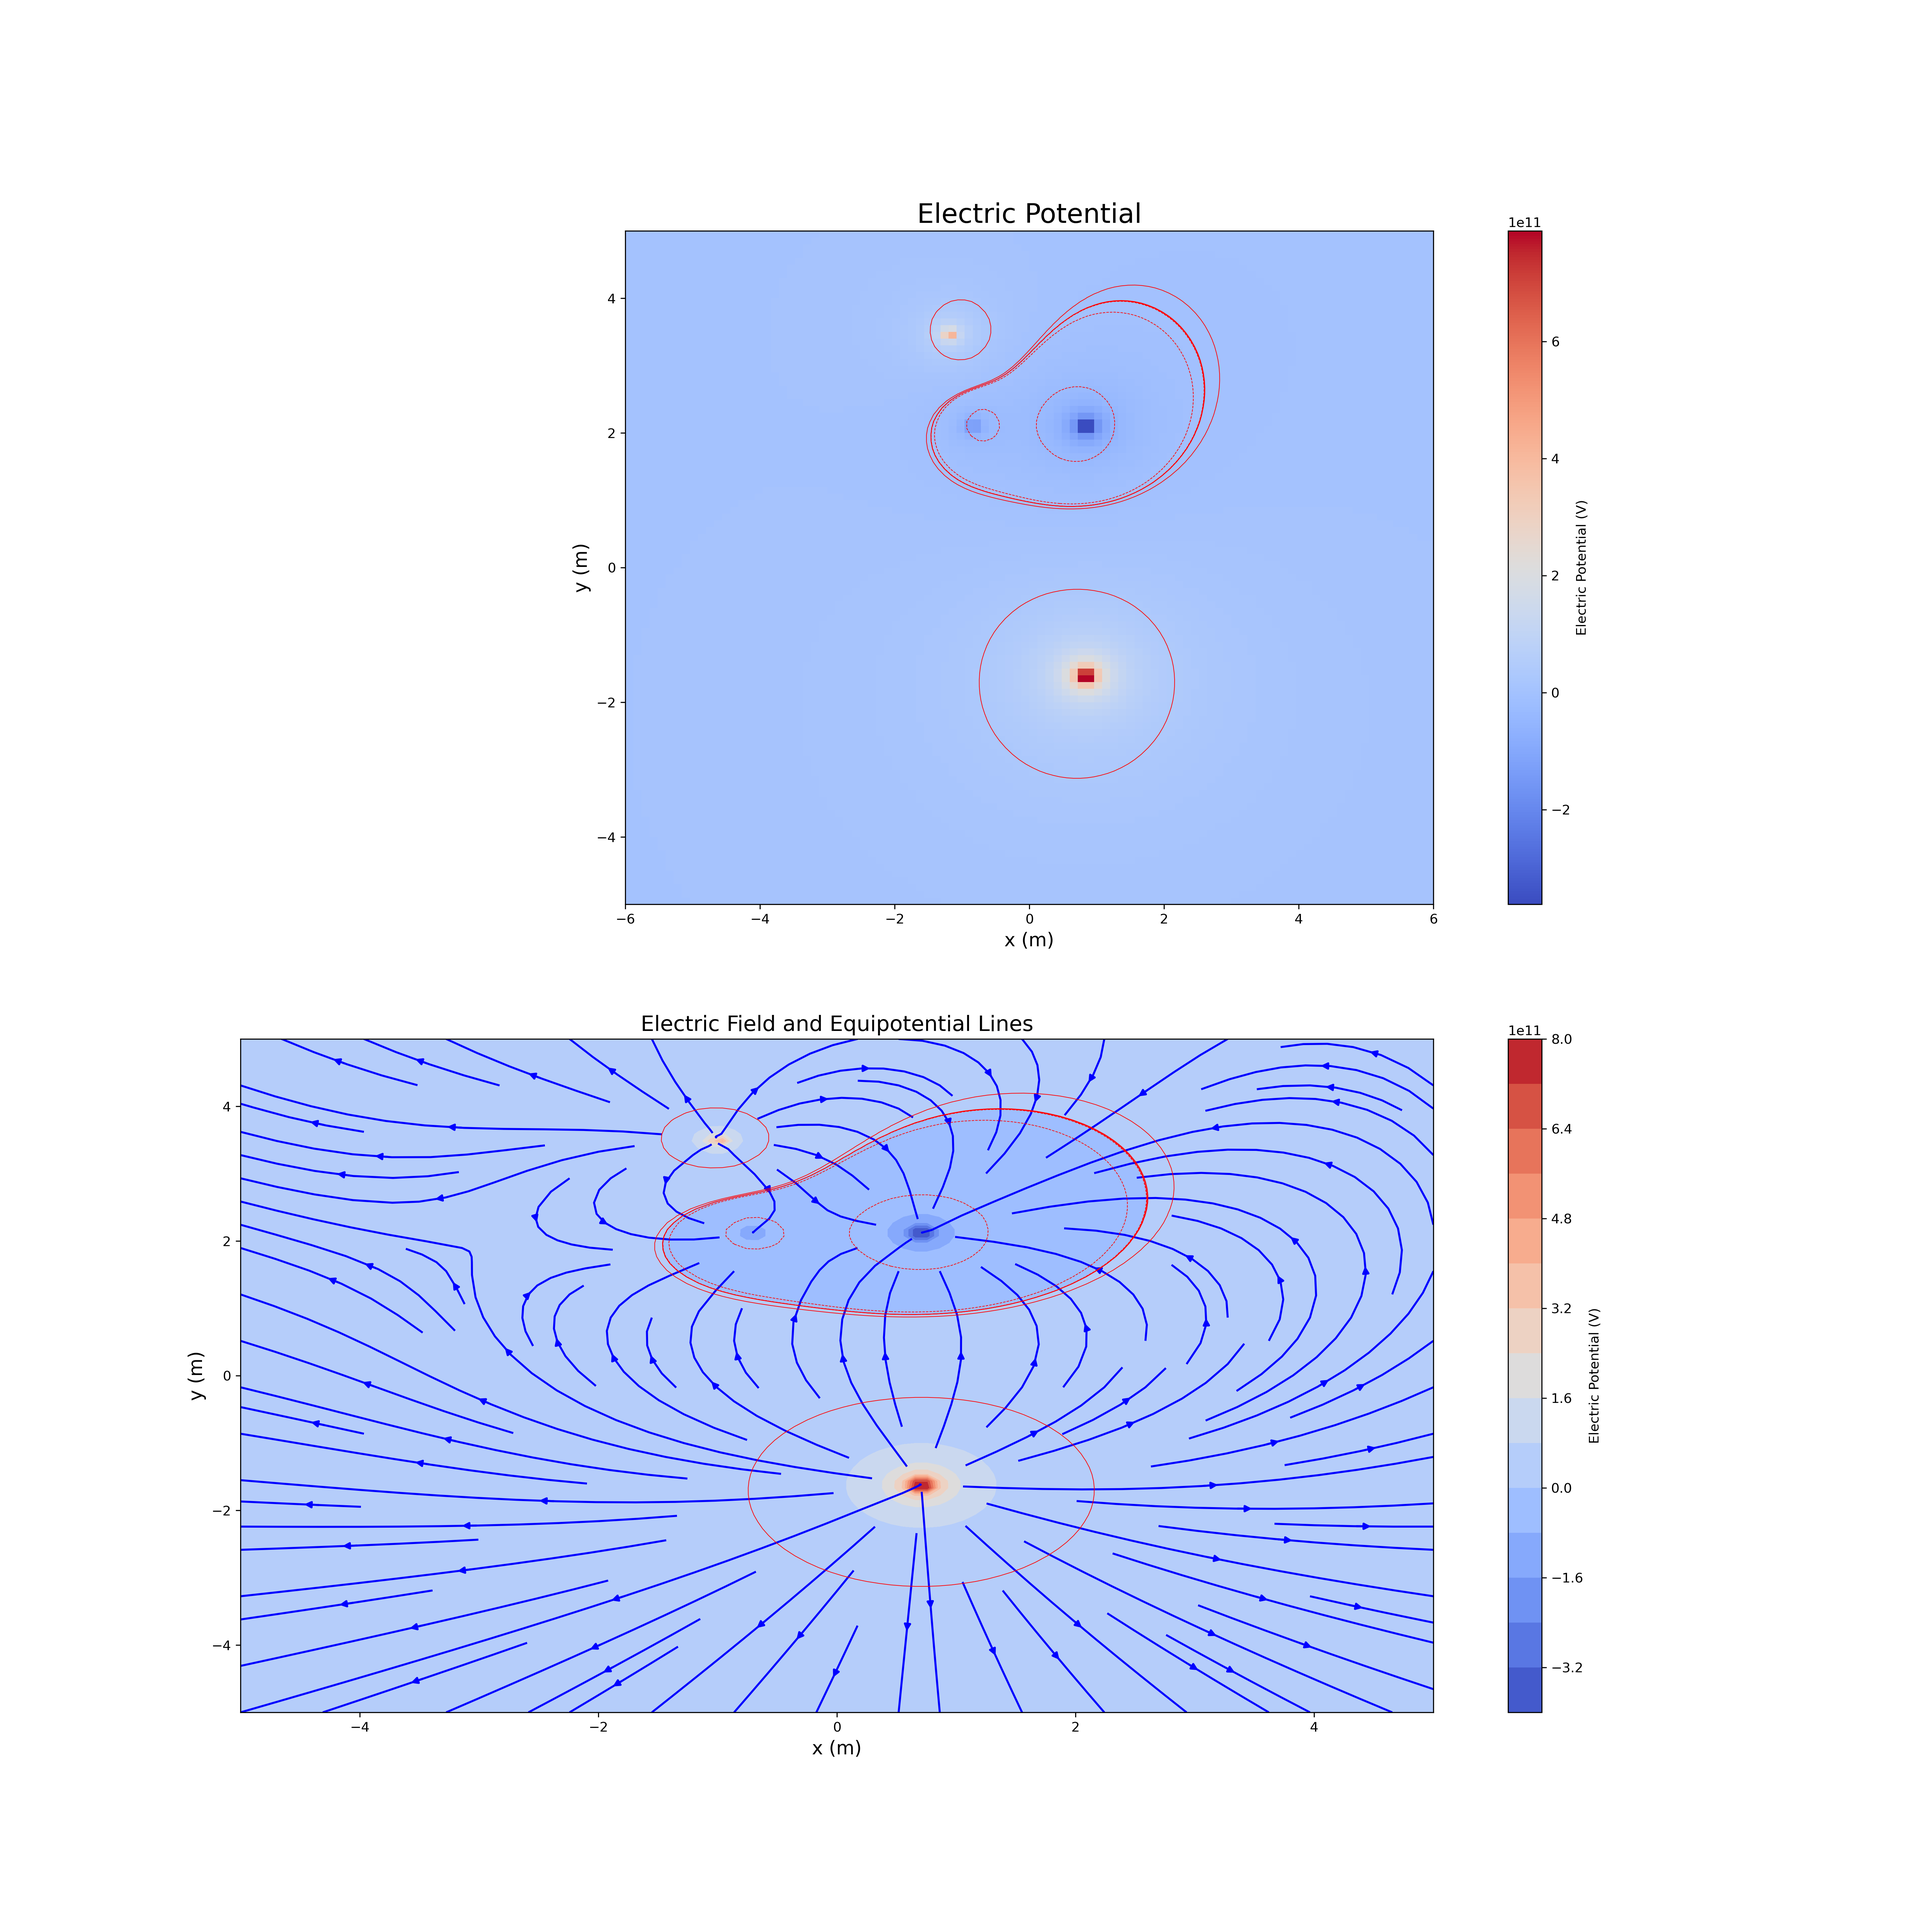
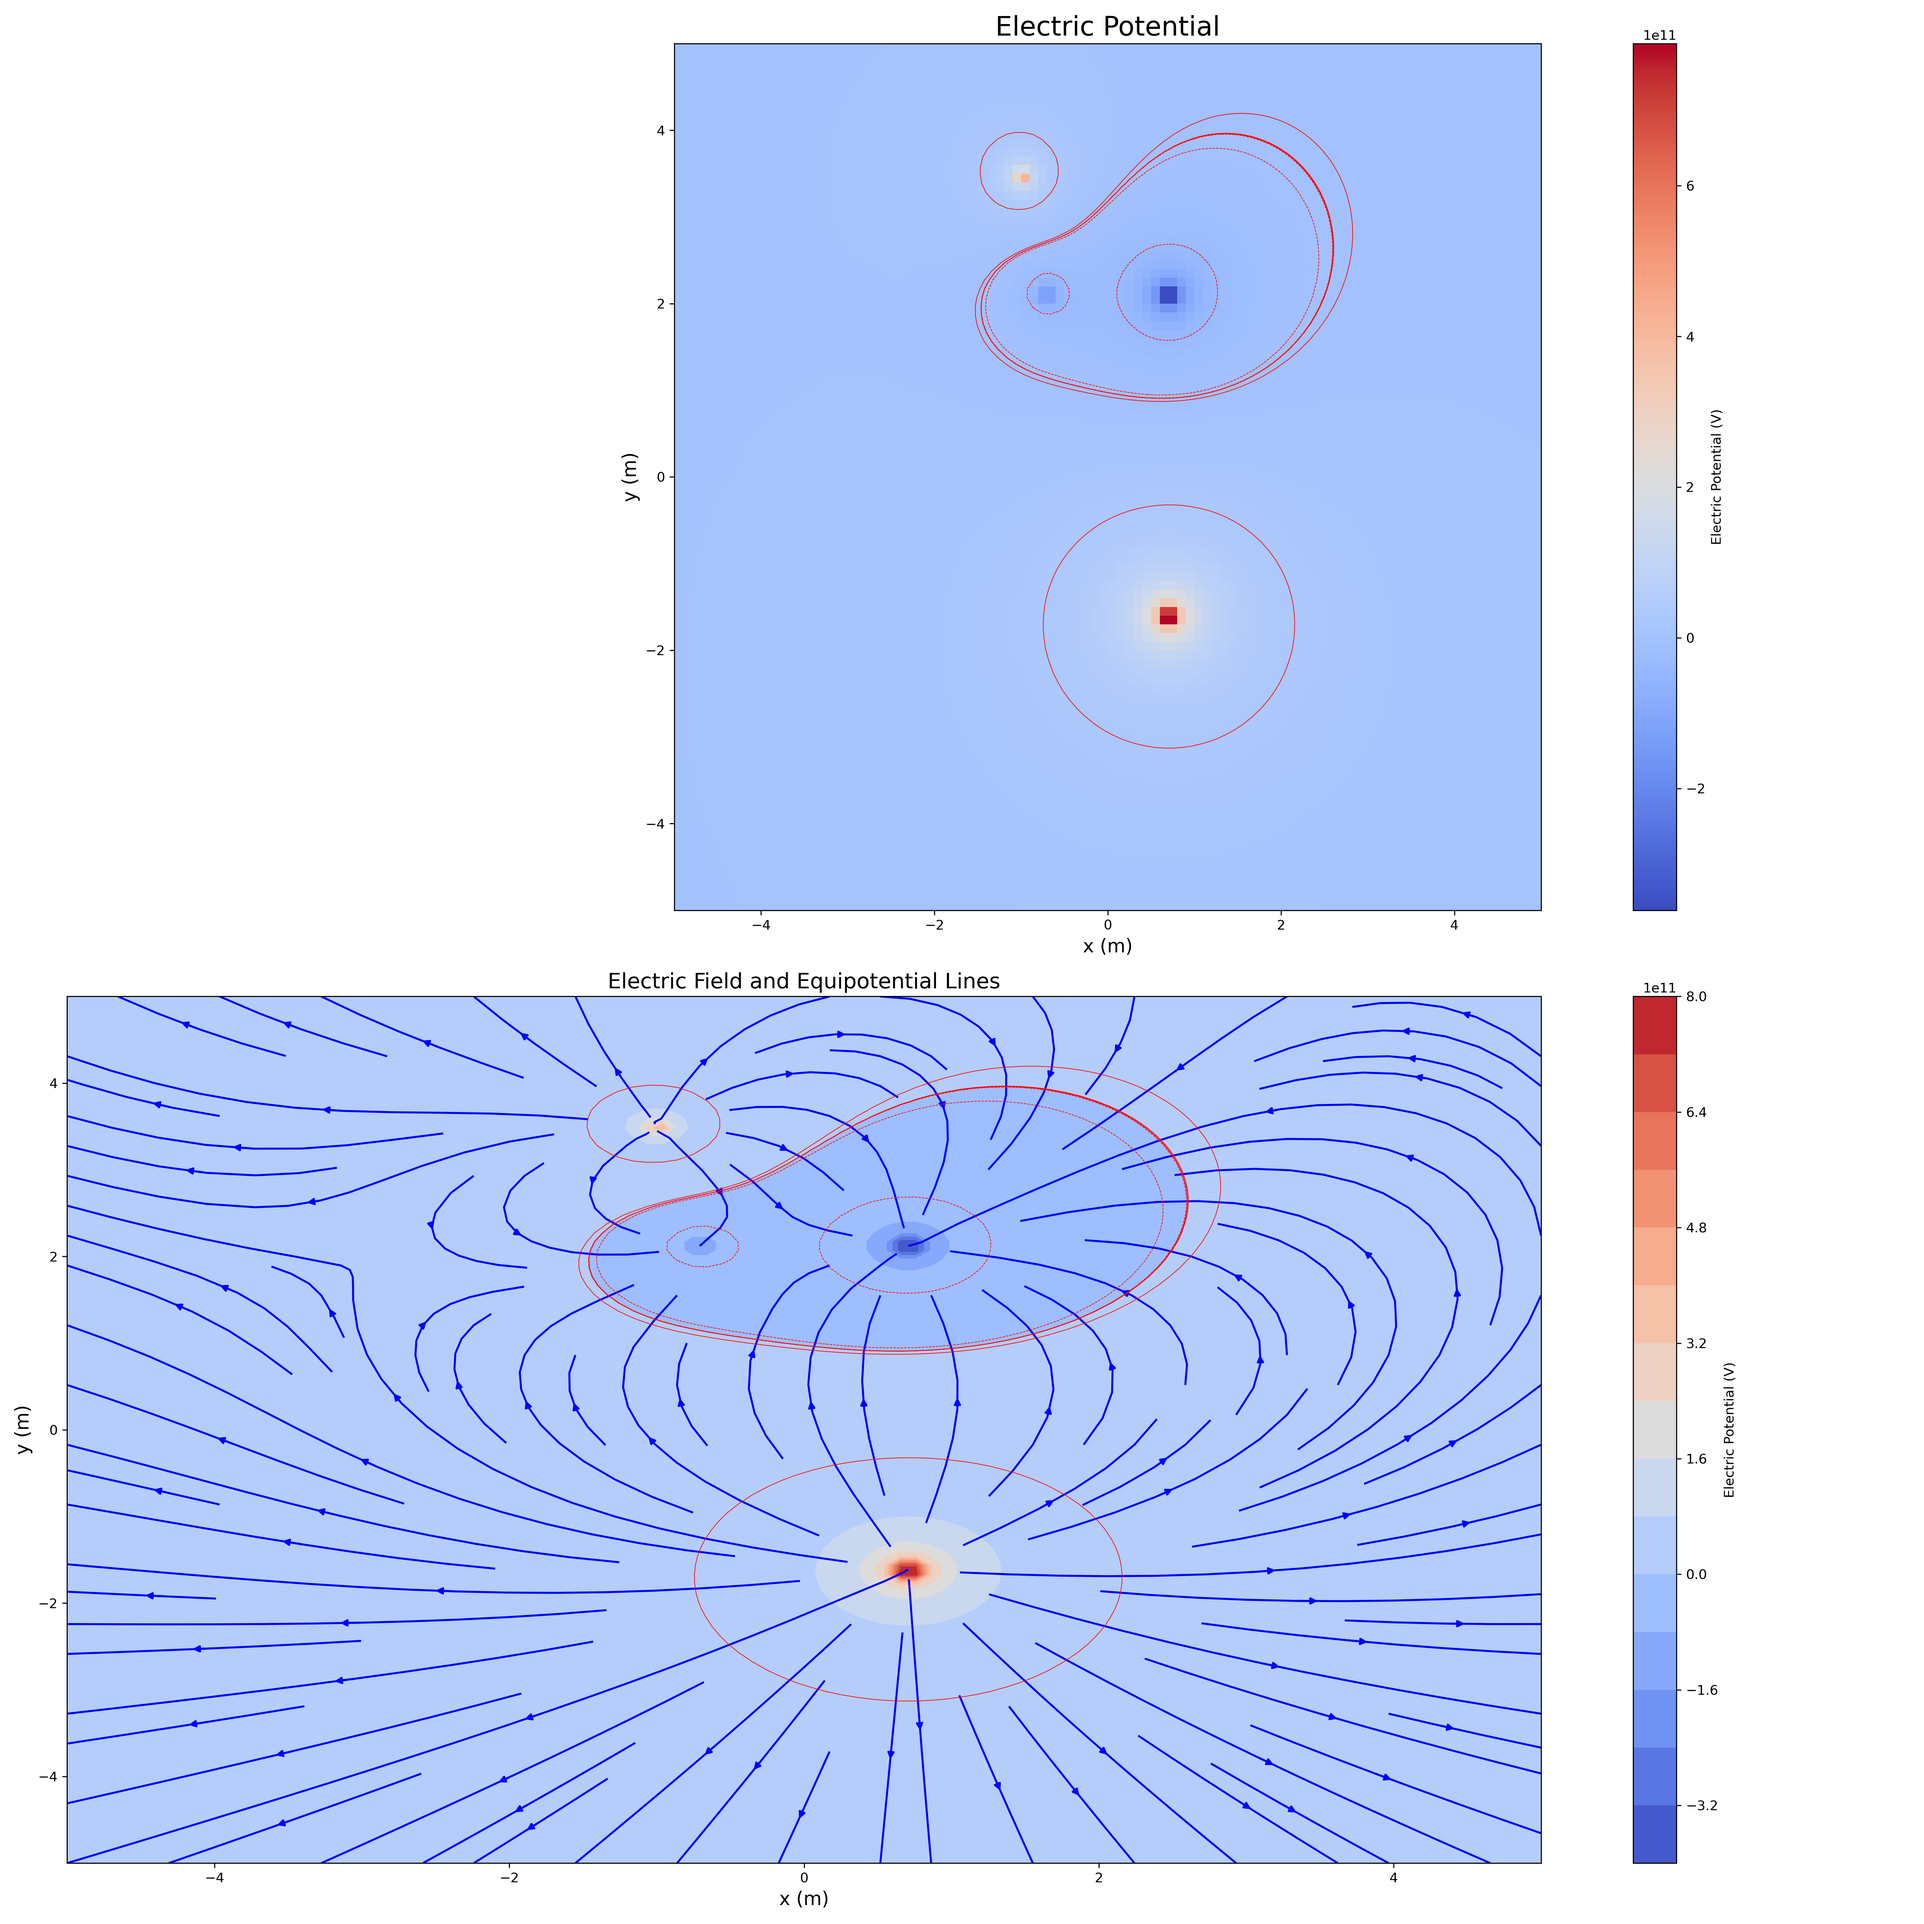
improvements to the code with images

diff --git a/PHYS 2330 Graded Work/Computational Project 1 & Physics Assignment 2/TH_Computational_Assignment _1.py b/PHYS 2330 Graded Work/Computational Project 1 & Physics Assignment 2/TH_Computational_Assignment _1.py
@@ -112,7 +112,7 @@ ax1.set_ylabel("y (m)", fontsize=14)
 
 
 # Electric potential plot (using coolwarm colour scheme)
-im1 = ax1.imshow(V_potential, cmap='coolwarm', extent=(-6, 6, -5, 5), origin="lower")
+im1 = ax1.imshow(V_potential, cmap='coolwarm', extent=(-5, 5, -5, 5), origin="lower")
 plt.colorbar(im1, ax=ax1, label="Electric Potential (V)")
 
 # Contour plot for electric potential
@@ -142,6 +142,8 @@ ax3.set_ylabel("y (m)", fontsize=14)
 # Colorbar for the potential field
 plt.colorbar(filled_contour, ax=ax3, label="Electric Potential (V)")
 
+# # Adjust layout to avoid overlap
+plt.tight_layout()
 
 # Save the figure
 plt.savefig('fieldPlot8.png', dpi=300)
